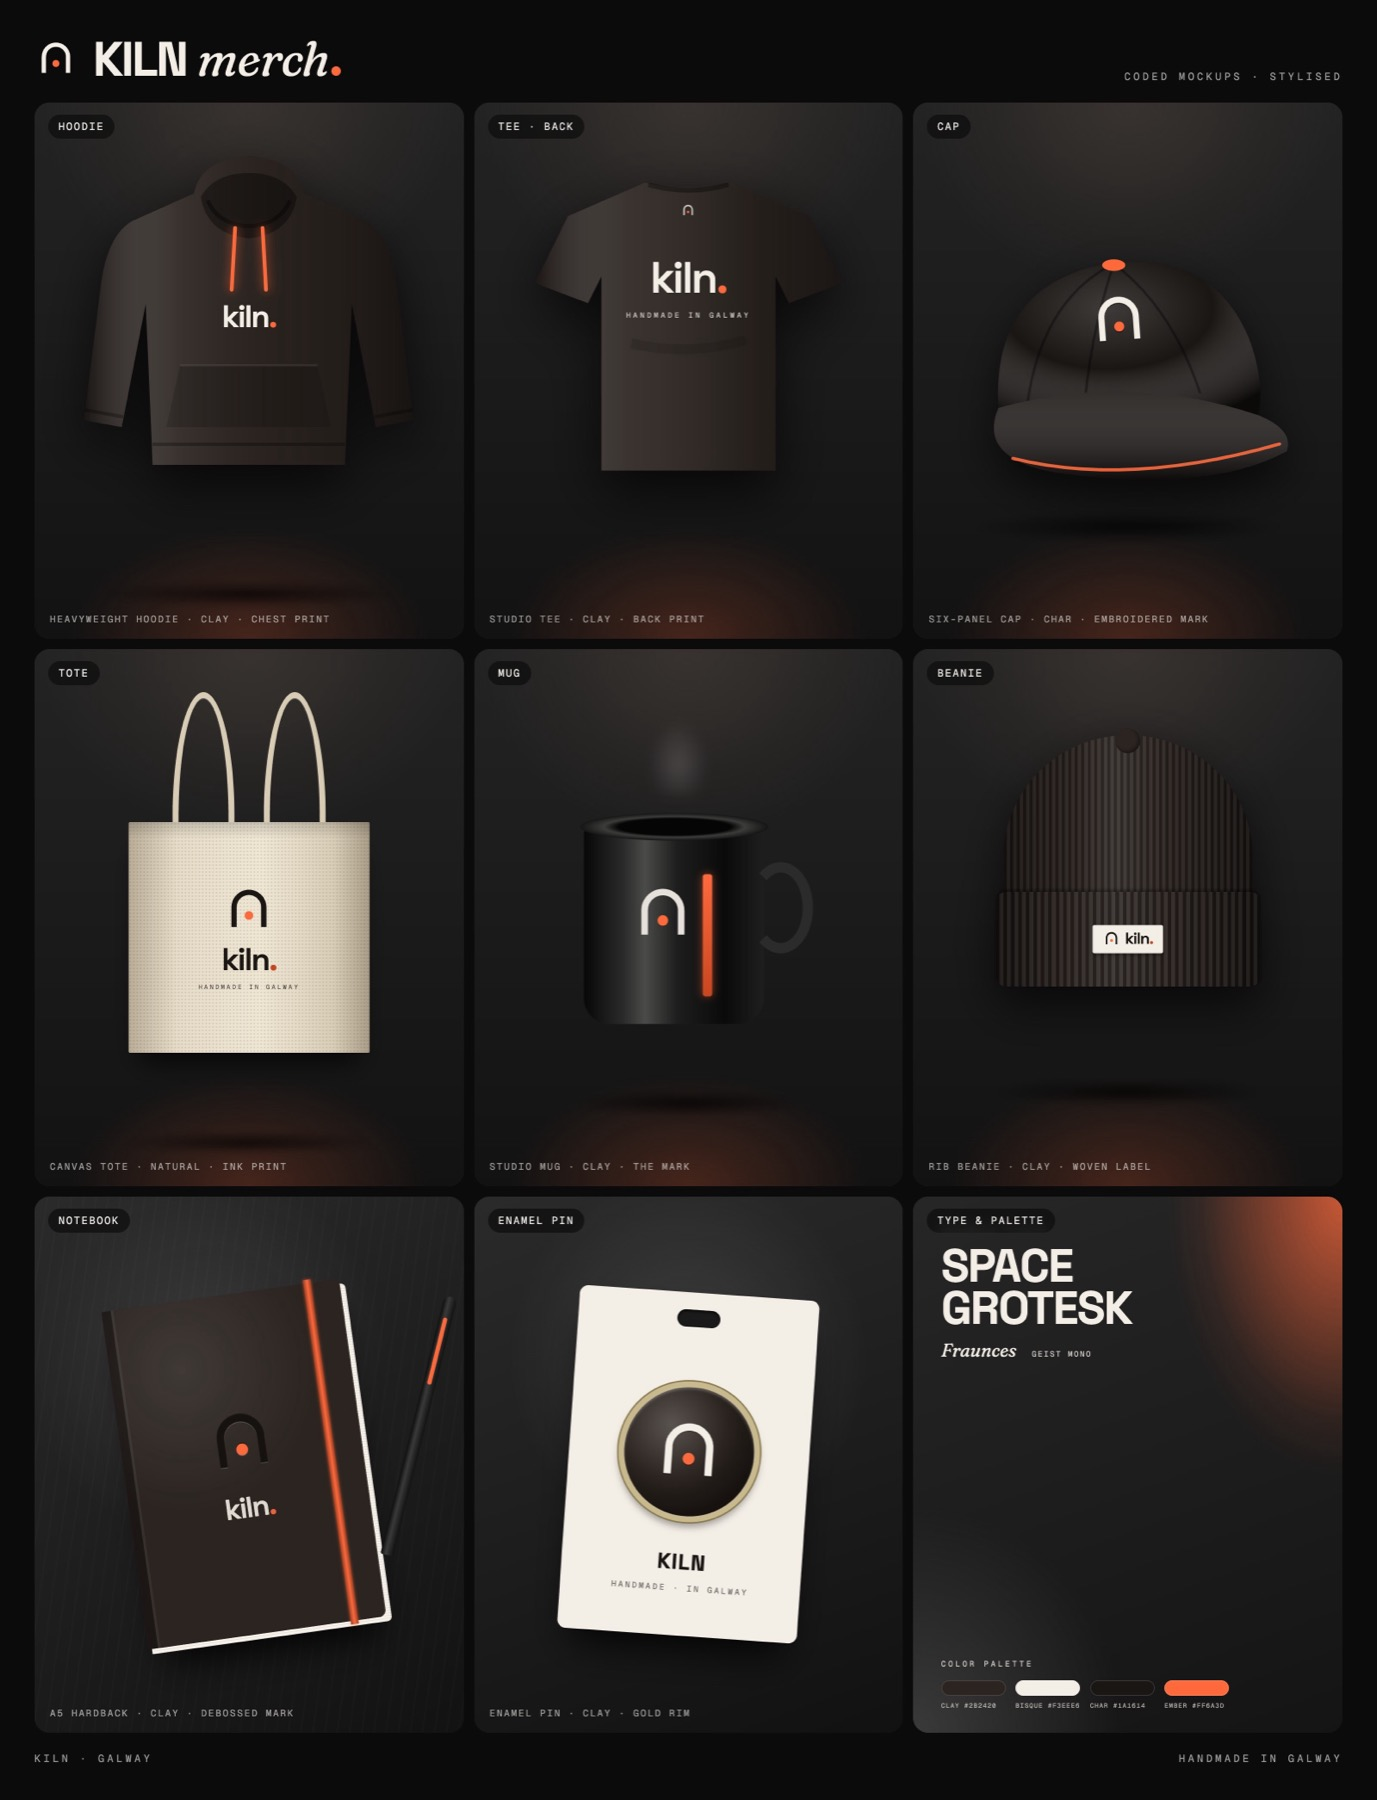
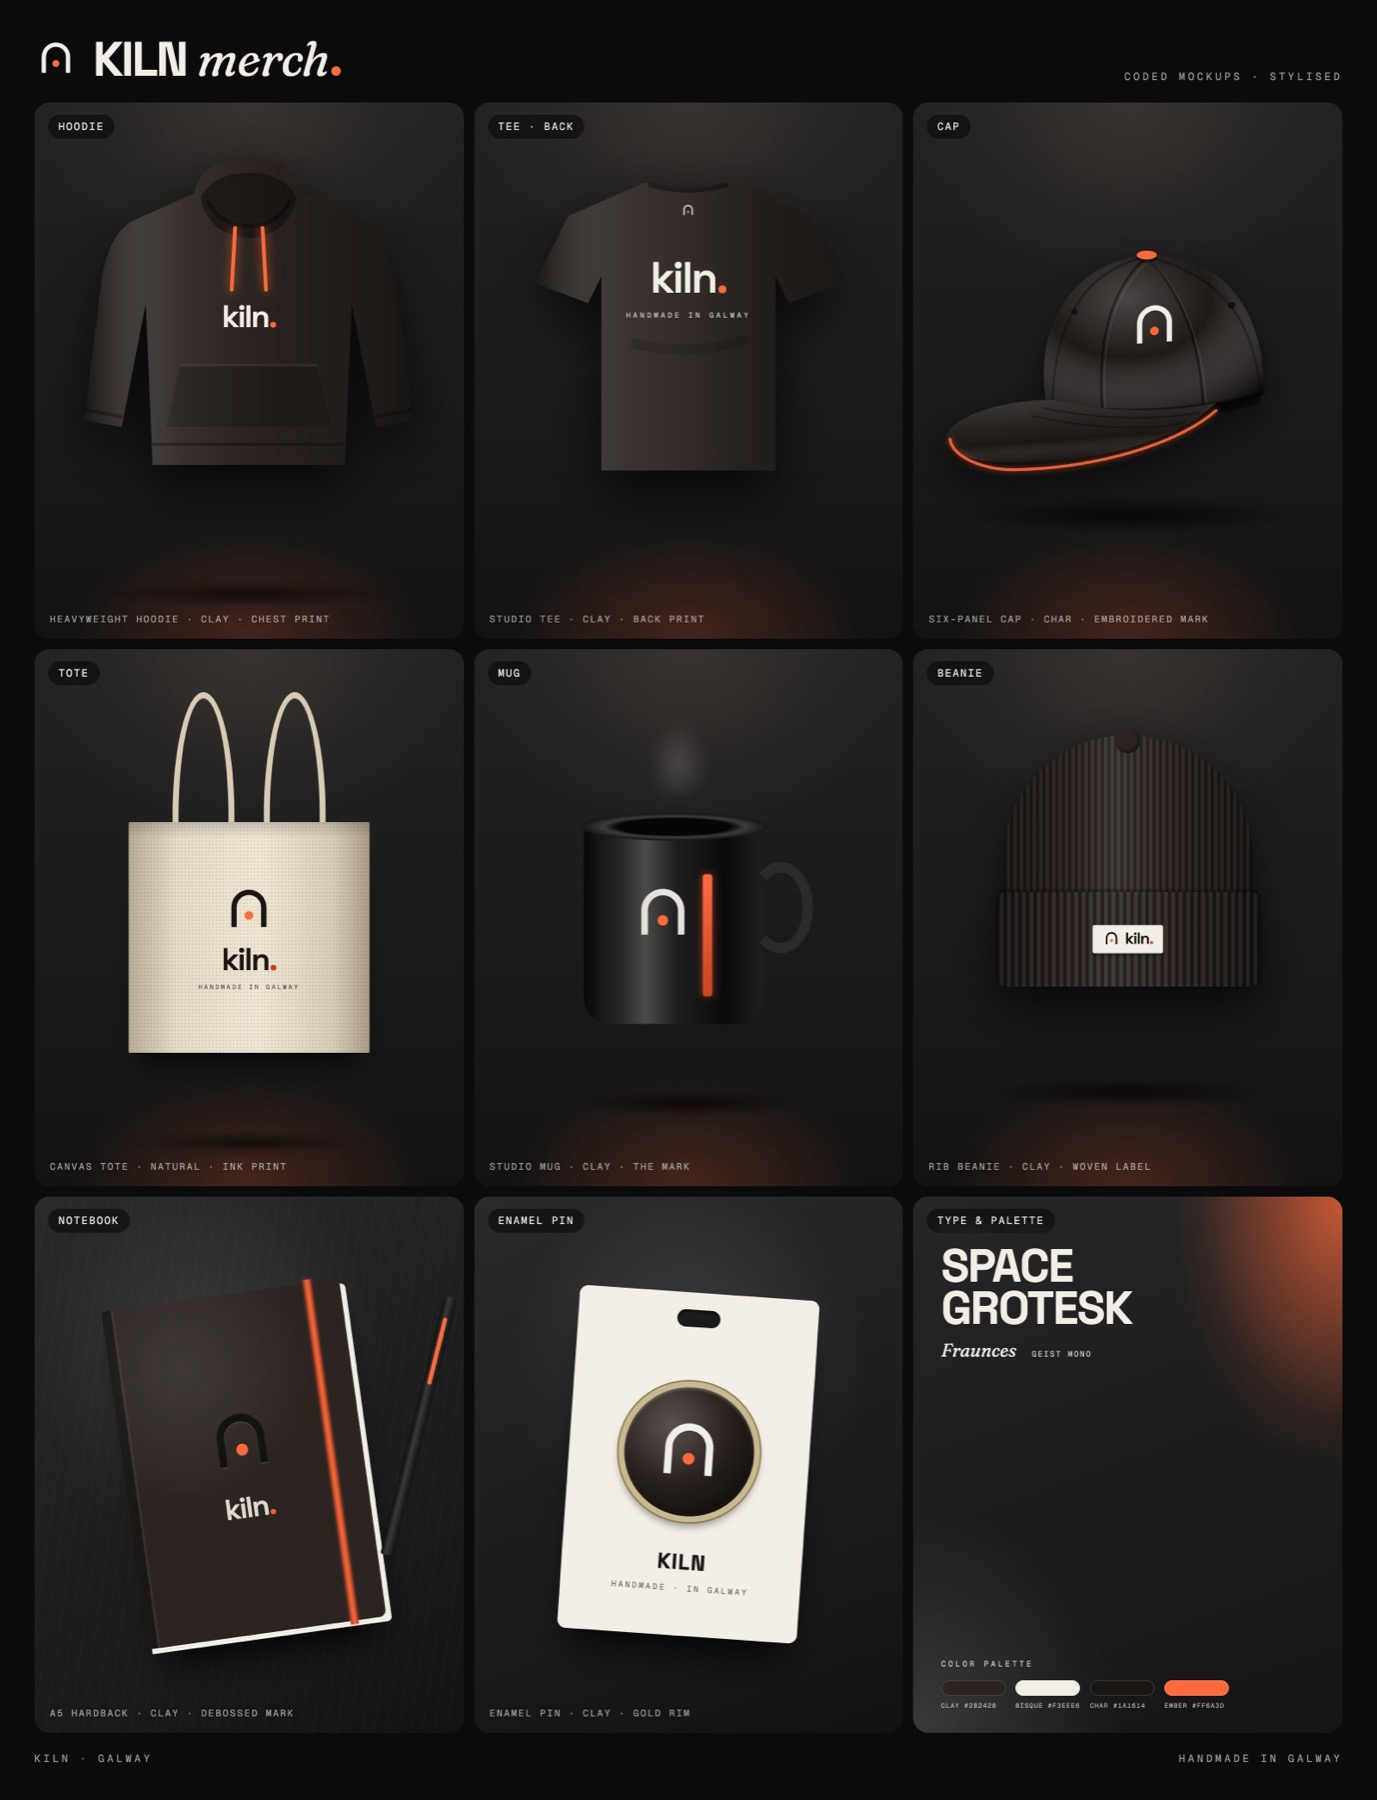
Merch: redraw the cap as a real three-quarter cap

Changed region(s): [[0.687, 0.1867, 0.9368, 0.28], [0.7807, 0.1244, 0.8431, 0.1867]]

diff --git a/skills/brand-kit/templates/items/cap.html b/skills/brand-kit/templates/items/cap.html
@@ -1,19 +1,43 @@
-<!-- a six-panel cap in the ink colour, the mark embroidered on the front, an accent button -->
+<!-- a six-panel cap in the ink colour, three-quarter view facing left: the mark embroidered on the front panels, an accent button, accent edge under the brim -->
 <div class="app app-cap studio">
   <div class="shadow"></div>
   <div class="g">
-    <svg viewBox="0 0 100 80" aria-hidden="true">
+    <svg viewBox="0 0 120 84" aria-hidden="true">
       <defs>
-        <radialGradient id="cp-crown" cx=".42" cy=".3" r=".8"><stop offset="0" stop-color="#fff" stop-opacity=".16" /><stop offset=".5" stop-color="#fff" stop-opacity="0" /><stop offset="1" stop-color="#000" stop-opacity=".5" /></radialGradient>
-        <linearGradient id="cp-brim" x1="0" y1="0" x2="0" y2="1"><stop offset="0" stop-color="#fff" stop-opacity=".1" /><stop offset="1" stop-color="#000" stop-opacity=".45" /></linearGradient>
+        <radialGradient id="cp-crown" cx=".38" cy=".28" r=".85"><stop offset="0" stop-color="#fff" stop-opacity=".2" /><stop offset=".45" stop-color="#fff" stop-opacity=".02" /><stop offset="1" stop-color="#000" stop-opacity=".55" /></radialGradient>
+        <linearGradient id="cp-brim" x1="0" y1="0" x2=".3" y2="1"><stop offset="0" stop-color="#fff" stop-opacity=".16" /><stop offset=".7" stop-color="#fff" stop-opacity="0" /><stop offset="1" stop-color="#000" stop-opacity=".3" /></linearGradient>
+        <linearGradient id="cp-under" x1="0" y1="0" x2="0" y2="1"><stop offset="0" stop-color="#000" stop-opacity=".55" /><stop offset="1" stop-color="#000" stop-opacity=".25" /></linearGradient>
       </defs>
-      <path class="cloth" d="M14 52 Q12 18 44 12 Q74 8 84 34 Q88 46 86 54 Q60 46 14 52 Z" />
-      <path fill="url(#cp-crown)" d="M14 52 Q12 18 44 12 Q74 8 84 34 Q88 46 86 54 Q60 46 14 52 Z" />
-      <path d="M46 12 Q40 30 38 50 M46 12 Q62 24 70 48 M46 12 Q26 22 22 51" fill="none" stroke="#000" stroke-opacity=".35" stroke-width=".7" />
-      <path class="brim" d="M14 52 Q50 42 86 54 Q96 58 94 64 Q72 76 30 70 Q8 66 14 52 Z" />
-      <path fill="url(#cp-brim)" d="M14 52 Q50 42 86 54 Q96 58 94 64 Q72 76 30 70 Q8 66 14 52 Z" />
-      <path class="edge" d="M18 66 Q50 74 92 62" />
-      <ellipse class="btn" cx="46" cy="12.4" rx="3.2" ry="1.6" />
+      <!-- back of the crown (the inside shadow behind the brim) -->
+      <path d="M40 58 Q70 64 106 55 L106 58 Q72 68 40 61 Z" fill="#000" opacity=".5" />
+      <!-- crown -->
+      <path class="cloth" d="M38 58 C34 34 46 13 70 11 C93 10 108 28 107 55 Q72 64 38 58 Z" />
+      <path fill="url(#cp-crown)" d="M38 58 C34 34 46 13 70 11 C93 10 108 28 107 55 Q72 64 38 58 Z" />
+      <!-- panel seams from the button -->
+      <g fill="none" stroke="#000" stroke-opacity=".45" stroke-width=".7">
+        <path d="M70 11.5 C58 22 54 40 56 61" />
+        <path d="M70 11.5 C82 24 87 40 88 60" />
+        <path d="M70 11.5 C50 16 41 32 40 57" stroke-opacity=".3" />
+        <path d="M70 11.5 C96 18 104 34 106 54" stroke-opacity=".3" />
+      </g>
+      <g fill="none" stroke="#fff" stroke-opacity=".07" stroke-width=".5">
+        <path d="M71 12.5 C59 23 55 40 57 61" /><path d="M71 12.5 C83 25 88 40 89 60" />
+      </g>
+      <!-- eyelets -->
+      <circle cx="97" cy="27" r="1.1" fill="#000" opacity=".6" /><circle cx="47" cy="29" r="1" fill="#000" opacity=".5" />
+      <!-- sweatband line -->
+      <path d="M38 58 Q72 64 107 55" fill="none" stroke="#000" stroke-opacity=".45" stroke-width="1.2" />
+      <!-- brim: top surface, then its thickness, then the accent edge -->
+      <path d="M40 57 Q66 63 92 58 C80 70 52 78 24 77 C10 76 4 72 7 67 C11 61 26 57 40 57 Z" fill="url(#cp-under)" transform="translate(0 2.2)" />
+      <path class="brim" d="M40 57 Q66 63 92 58 C80 70 52 78 24 77 C10 76 4 72 7 67 C11 61 26 57 40 57 Z" />
+      <path fill="url(#cp-brim)" d="M40 57 Q66 63 92 58 C80 70 52 78 24 77 C10 76 4 72 7 67 C11 61 26 57 40 57 Z" />
+      <g fill="none" stroke="#000" stroke-opacity=".35" stroke-width=".45">
+        <path d="M37 59.6 Q64 65 87 61" /><path d="M33 62 Q60 68 82 64.5" />
+      </g>
+      <path class="edge" d="M7.5 69.5 C8 75 18 79.4 28 79.2 C54 78.8 80 71 92 60.4" />
+      <!-- top button -->
+      <ellipse cx="70" cy="11.2" rx="3.4" ry="1.5" fill="#000" opacity=".4" transform="translate(0 .8)" />
+      <ellipse class="btn" cx="70" cy="11" rx="3.2" ry="1.4" />
     </svg>
     <svg class="mk emb" viewBox="0 0 32 32"><use href="#mark" /></svg>
   </div>

diff --git a/skills/brand-kit/templates/partials/items.css b/skills/brand-kit/templates/partials/items.css
@@ -251,13 +251,13 @@
   .app-teeback .print .wm { font-size: 13cqw; }
   .app-teeback .print small { font-family: var(--mono); font-size: 2.2cqw; letter-spacing: 0.34em; text-transform: uppercase; color: color-mix(in oklab, var(--light) 80%, transparent); white-space: nowrap; }
 
-  /* ---------- cap ---------- */
-  .app-cap .shadow { bottom: 18%; width: 74cqmin; height: 7cqmin; }
-  .app-cap .g { top: 22%; width: 84cqmin; filter: drop-shadow(0 20px 24px rgb(0 0 0 / 0.65)); }
+  /* ---------- cap (three-quarter view, facing left) ---------- */
+  .app-cap .shadow { bottom: 20%; width: 80cqmin; height: 8cqmin; }
+  .app-cap .g { top: 22%; left: 47%; width: 88cqmin; filter: drop-shadow(0 18px 22px rgb(0 0 0 / 0.6)); }
   .app-cap .cloth, .app-cap .brim { fill: var(--ink); }
-  .app-cap .edge { fill: none; stroke: var(--accent); stroke-width: 0.9; stroke-linecap: round; opacity: 0.9; }
+  .app-cap .edge { fill: none; stroke: var(--accent); stroke-width: 0.9; stroke-linecap: round; opacity: 0.9; filter: drop-shadow(0 0 1px color-mix(in oklab, var(--accent) 70%, transparent)); }
   .app-cap .btn { fill: var(--accent); }
-  .app-cap .emb { position: absolute; left: 39%; top: 24%; width: 17cqw; rotate: -4deg; color: var(--light); filter: drop-shadow(0 1px 0 rgb(0 0 0 / 0.6)); }
+  .app-cap .emb { position: absolute; left: 60.5%; top: 30%; width: 14cqw; translate: -50% 0; transform: skewY(-4deg); color: var(--light); filter: drop-shadow(0 0.25cqw 0 rgb(0 0 0 / 0.55)); }
 
   /* ---------- beanie (ribbed knit) ---------- */
   .app-beanie .shadow { bottom: 15%; width: 64cqmin; height: 6cqmin; }
